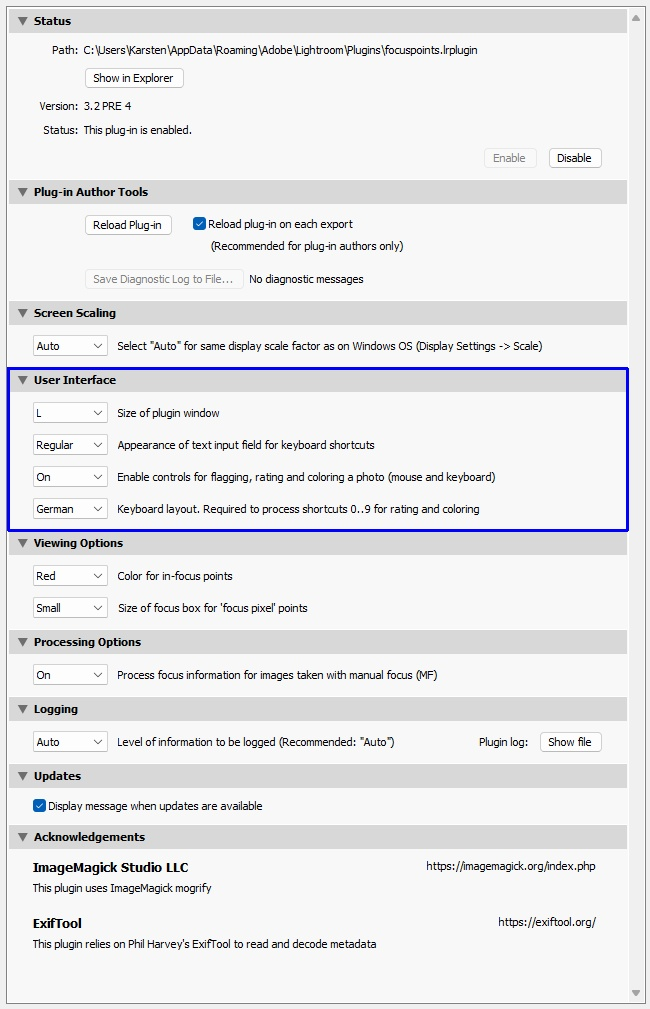
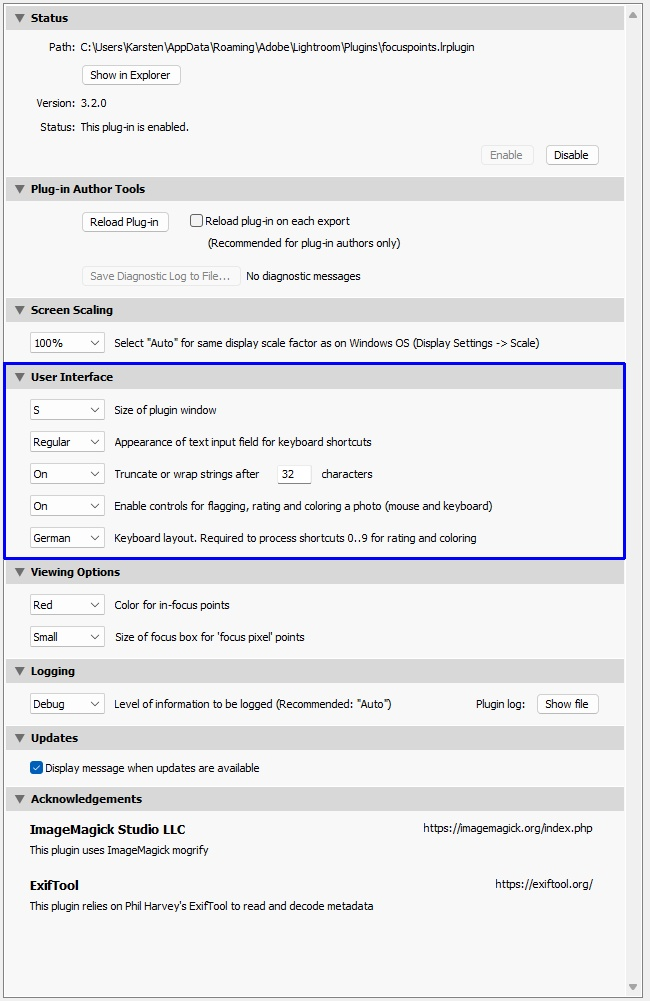
Update docs

Changed region(s): [[0.0, 0.0, 1.0, 1.0], [0.8308, 0.1239, 0.9231, 0.1858], [0.7692, 0.1548, 0.8, 0.1858]]

diff --git a/docs/README_V3.2.md b/docs/README_V3.2.md
@@ -1,0 +1,202 @@
+## Focus Points V3.2 
+
+This document describes the new features and changes in V3.2.<br>
+
+New features introduced in V3.2: 
+
+- [Tagging (Flagging, Rating and Coloring) of photos within the plugin UI](#tagging-of-photos)&nbsp;&nbsp;[#302](https://github.com/musselwhizzle/Focus-Points/issues/302) (not for LR5)
+- [Filmstrip Navigation](#filmstrip-navigation)&nbsp;&nbsp;[#314](https://github.com/musselwhizzle/Focus-Points/issues/314) (not for LR5)
+- [Customizable plugin window size](#customizable-plugin-window-size)&nbsp;&nbsp;[#317](https://github.com/musselwhizzle/Focus-Points/issues/317)
+- [Introduction of visible input field for keyboard shortcuts](#introduction-of-visible-input-field-for-keyboard-shortcuts)&nbsp;&nbsp;[#321](https://github.com/musselwhizzle/Focus-Points/issues/321)
+- [Long metadata names excessively widen the information area](#display-of-long-metadata-names)&nbsp;&nbsp;[#326](https://github.com/musselwhizzle/Focus-Points/issues/326)
+- [Unify language used in the Shooting Information section](#unify-language-used-in-the-shooting-information-section)&nbsp;&nbsp;[#342](https://github.com/musselwhizzle/Focus-Points/issues/342)
+- [Focus points outside cropped image area](#focus-points-outside-cropped-image-area)&nbsp;&nbsp;[#339](https://github.com/musselwhizzle/Focus-Points/issues/339)
+- [Improved sizing of metadata window](#improved-sizing-of-metadata-window)&nbsp;&nbsp;[#333](https://github.com/musselwhizzle/Focus-Points/issues/333)
+- [Buy the developer a coffee](#buy-the-developer-a-coffee)&nbsp;&nbsp;[#319](https://github.com/musselwhizzle/Focus-Points/issues/319)
+
+
+### User Interface changes
+
+
+Screenshot of user interface with new tagging controls, shortcut input field and "coffee" link :
+
+<img src="../screens/README%20V3.2%20UI.jpg" alt="Screenshot" style="width: 800px;"/>
+
+Screenshot of plugin settings page with new `User Interface` section:
+
+<img src="../screens/README V3.2%20Settings.jpg" alt="Screenshot" style="width: 600px;"/>
+
+
+### Tagging of photos
+
+Users for whom focus point accuracy is critical when selecting shots now have the ability to flag, reject, rate or color images directly within the plugin. The user interface has been updated to include the relevant controls: 
+
+Windows:
+<img src="../screens/README TaggingControlsWIN.jpg" alt="Screenshot" style="width: 800px;"/>
+
+macOS:
+ <img src="../screens/README TaggingControlsMAC.jpg" alt="Screenshot" style="width: 800px;"/>
+
+Tagging can be performed using the same logic and [keyboard shortcuts](#keyboard-shortcuts) as in Lightroom. Pressing the Shift key during tagging moves the plugin to the next photo.
+
+**Notes / Restrictions:**
+
+- Although the plugin allows you to set a photo's flag status, rating and color label, these settings are **not** reflected in the plugin's user interface. Any changes to the flag status, rating or color will be acknowledged immediately with a standard message in Lightroom Classic, and these changes will be reflected in the filmstrip for the selected photo. It is recommended that you adjust the sizes of the plugin window and Lightroom's filmstrip when using tagging, so that both are visible at the same time.
+<br><br>
+- Use of `Shift` + `0`-`9` keyboard shortcuts require that the plugin is aware which international keyboard layout is currently used. This is necessary because the plugin cannot recognize key codes; it can only work with text input. See xxx.<br>
+The keyboard layout can be configured in the `User Interface` section. The predefined options cover a large percentage of the available layouts, and more can be added on request. In this specific context, it is important to note that the term 'layout' refers only to the codes produced by the `0`–`9` keys in the top row, and not to the entire keyboard.
+<br><br>
+<img src="../screens/README KeyboardLayoutSettings.jpg" alt="Screenshot" style="width: 600px;"/>
+<br><br>
+  
+- The LR SDK does not support clickable images, so all control elements must be text or text buttons. As the plugin UI displays all Unicode 'star symbol' characters as small, hardly recognizable stars, the rating controls are represented by numbers 1–5 instead.
+
+- The display of tagging controls and related keyboard shortcut operation can be disabled in the plugin settings, under section `User Interface`.  
+
+- Note: Tagging features use the 'LrSelection' namespace, which is only available in SDK version 6.0 and above. Therefore, these features is not available on LR5.7 (which is still in use by a few plugin users!).
+
+
+
+### Filmstrip Navigation
+You no longer need to select the corresponding photos before starting the plugin to display the focus point for multiple photos.<br> 
+The plugin now supports next and previous function when run on a single image (the current one). `Next image` will advance to the next photo in the filmstrip, and `Previous image` will advance to the previous photo in the filmstrip. Unlike with a set of selected photos, there is no wrap-around when the beginning or end of the film strip is reached.
+
+Running the plugin on a selection of multiple photos is still possible.
+
+Note: Filmstrip navigation uses the 'LrSelection' namespace, which is only available in SDK version 6.0 and above. Therefore, this feature is not available on LR5.7.
+
+
+### Customizable plugin window size
+
+V3.2 introduces a "Size of plugin window" option, that is valid for both macOS and Windows*. A new setting has been added to the 'User Interface' menu that allows you to customize the size of the plugin window. You can choose from five options ranging from XXL to S.
+
+In the Focus Point dialog, this setting corresponds to 80% (XXL) to 40% (S), in increments of 10%, of the size of the Lightroom application window used to display the photo. Please note that the text pane to the right of the photo and the bottom row of user controls are not included in this percentage.
+
+<img src="../screens/README WindowSize.jpg" alt="Screenshot" style="width: 600px;"/>
+
+In the Metadata Viewer, this setting determines the height or half the width of the dialog window.
+
+* Windows users already had the option to adjust the size of the focus points window using the screen scaling option specific to Windows. This setting remains as it is.
+
+
+### Introduction of visible input field for keyboard shortcuts
+
+Due to limitations in the LR SDK, the plugin can only work with text input and cannot recognize key codes. Keyboard shortcuts entered by the user, such as 'P' for 'Set as Pick' or '+' for 'Previous Image', are collected as text in a designated input field. If the character entered corresponds to a defined shortcut, the related action is performed. This works fine as long as the focus is on the input field.
+
+In Windows, only pressing the Tab key or clicking on the photo will remove the focus from the input field. As a result, further keyboard input will not be recognized. Mouse operation does not remove the focus.
+
+On macOS, clicking on any control (button, link text or tagging icon) takes focus away from the input field. With the large number of new controls in V3.2, it is not possible to perform operations using keyboard shortcuts and the mouse simultaneously for the same image.
+
+n V3.1, the text input field for keyboard shortcuts was invisible. The user could not understand why keyboard shortcuts stopped working when focus was removed from the input field by mouse operation. As the LR SDK offers no option to focus on a specific control, the input field must be refocused by the user.
+
+To make this procedure more transparent and intuitive, the text input field is now visible by default:
+
+<img src="../screens/README%20TextInputField.jpg" alt="Screenshot" style="width: 600px;"/>
+
+Users who find the new control disturbing can customize its appearance in the plugin settings:
+
+<img src="../screens/README%20TextInputSetting.jpg" alt="Screenshot" style="width: 600px;"/>
+
+- Invisible. This is self-explaining
+- Small. A narrow input field without labelling
+- Regular. An input field that can display a minimum of 10 characters, along with a label containing a link to the 'Keyboard Shortcuts' section of the user manual.
+
+### Keyboard Shortcuts
+
+Several new keyboard shortcuts have been introduced to support photo tagging (flagging, rating, and color labeling). These shortcuts are identical to those used in Lightroom.
+
+Some shortcuts in V3.1 have been changed to avoid collision with Lightroom tagging shortcuts. Previously, 'p' was used for 'preview', 'x' for 'exit', and 'u' for 'user manual'. Instead of 'Exit', the plugin will now close using the 'Close' button (shortcut 'C').
+
+
+| Action                                      | Keyboard shortcuts |
+|---------------------------------------------|--------------------|
+| **Navigation**                              |                    | 
+| Previous image                              | `-`, `<`           |
+| Next image                                  | `+`, `Spacebar`    |
+| **Flagging**                                |                    |
+| Flag photo as a pick                        | `P`                |
+| Flag photo as a pick and go to next photo   | `Shift`+`P`        |
+| Flag photo as a reject                      | `X`                |
+| Flag photo as a reject and go to next photo | `Shift`+`X`        |
+| Unflag photo                                | `U`                |
+| Unflag photo and go to next photo           | `Shift`+`U`        |
+| **Rating**                                  |                    |
+| Set star rating                             | `1`-`5`            |
+| Set star rating and go to next photo        | `Shift`+`1`-`5`    |
+| **Color**                                   |                    |
+| Assign a red label                          | `6`                |
+| Assign a yellow label                       | `7`                |
+| Assign a green label                        | `8`                |
+| Assign a blue label                         | `9`                |
+| Assign a color label and go to next photo   | `Shift`+`6`-`9`    |
+| **Miscelleanous**                           |                    |
+| Open User Manual                            | `M`                |
+| Open Troubleshooting Information (Help)     | `?`, `H`           |
+| Check Log                                   | `L`                |
+| Close                                       | `C `               |
+
+
+### Display of long names
+
+Some metadata values or filenames may be much longer than average. This can result in the information area of the dialogue box becoming wider than necessary. This is because most of the space is empty.
+
+For a few selected metadata items, if the character string exceeds a fixed internal length, it is split across multiple lines. However, this approach is not practical for all metadata.
+
+There is a new setting in 'User Interface' that allows you to specify whether long names should be truncated in the display or shown in full in the tooltip. You can choose the truncation limit, which can be set between 10 and 100 characters.
+
+<img src="../screens/README%20Truncate%20Setting.jpg" alt="Screenshot" style="width: 600px;"/>
+
+Enabling this setting makes the window content look much tidier:
+
+<img src="../screens/README%20Long%20Names.jpg" alt="Screenshot" style="width: 800px;"/>
+
+
+### Unify language used in the Shooting Information section
+
+When running Lightroom with a non-English user interface, the 'Shooting Information' section shows a mix of English and UI language (here: German):
+
+<img src="../screens/README%20Unify%20Shooting%20Information%20Language%201.jpg" alt="Screenshot" style="width: 800px;"/>
+
+The plugin user interface is designed in English. The metadata information retrieved by ExifTool is also in English. However, the metadata information stored in Lightroom, which is used to fill in the 'Image' and 'Shooting Information' fields, is in the same language as the Lightroom user interface. This results in a mixture of languages.
+
+To avoid this issue, the 'Shooting Information' items containing language-dependent text are retrieved from ExifTool rather than Lightroom in V3.2.
+
+<img src="../screens/README%20Unify%20Shooting%20Information%20Language%202.jpg" alt="Screenshot" style="width: 800px;"/>
+
+
+### Focus points outside cropped image area
+
+Although focus points have been detected, they may be invisible or partially invisible if they are located outside the cropped image area.
+
+Note: This message is not triggered by face or subject detection frames, only focus points. 
+
+Cropped image (focus point outside):
+<img src="../screens/Troubleshooting 11.jpg" alt="User Interface (Multi-image)" style="width: 800px;"/>
+
+Original image with focus point:
+<img src="../screens/Troubleshooting 12.jpg" alt="User Interface (Multi-image)" style="width: 800px;"/>
+
+
+### Improved sizing of metadata window
+
+In version 3.1, metadata tag names that were significantly longer than 40 characters could result in an unusual display in the metadata viewer.
+
+This has been improved in V3.2:
+
+1. The maximum length of tags displayed is limited to 32 characters.
+2. The maximum length of values displayed is limited to 128 characters.
+3. Truncated strings are indicated by an ellipsis symbol '...' <br> If this is relevant information, it can still be reviewed by opening the metadata as text.
+5. The edit fields for the 'Tag' and 'Value' filters are the same size as in point 1.
+6. The heigth of the metadata window is given by the `Size of plugin window` setting S .. XXL
+7. The width of the metadata window chosen that the head line (filter entry fields, hint) fits in but minimum 70% of the window height.
+
+<img src="../screens/README%20Metadata%20Window.jpg" alt="Screenshot" style="width: 800px;"/>
+
+
+### Buy the developer a coffee
+Several of you have asked how you can show your appreciation for the work I have done to significantly improve the plugin over the past year or so. If you care about this issue, you can now show your [support via Ko-fi](https://ko-fi.com/focuspoints)*. Simply click the link next to the coffee cup.
+
+*Ko-fi is a well-established service that enables users to support creators through voluntary donations.
+Payments are processed securely via PayPal or credit/debit card, and no account or subscription is required.
+
+Thank you very much for your support!

diff --git a/docs/Focus Points.md b/docs/Focus Points.md
@@ -14,7 +14,7 @@ Focus Points Plugin for Lightroom Classic
    - [User Interface](#user-interface), [User Messages](#user-messages), [Plugin Status](#plugin-status), [Keyboard Shortcuts](#keyboard-shortcuts) 
 *  [Metadata Viewer](#23-metadata-viewer)
 *  [Configuration and Settings](#24-configuration-and-settings)
-   - [Screen Scaling](#screen-scaling), [User Interface](#user-interface), [Viewing Options](#viewing-options), [Logging](#logging), [Update Check](#update-check)
+   - [Screen Scaling](#screen-scaling), [User Interface](#user-interface-settings), [Viewing Options](#viewing-options), [Logging](#logging), [Update Check](#update-check)
 
 ### [Display of Focus Points](#3-display-of-focus-points)
 
@@ -406,16 +406,16 @@ Selecting 'Focus Point Viewer' from the list of installed plugins (_Library → 
 
 <br>
 
-### Screen Scaling (Windows only)
+### Screen Scaling
 
- **_Display scale factor_**. Default setting: `Auto`
+ **_Display scale factor_**. Windows only. Default setting: `Auto`
 
 The drawing routines used on Windows are not aware of any display scale factor that may have been applied to the Windows configuration (_Settings → Display → Scale_). In order to avoid that the plugin window gets bigger than the screen size, the plugin has to reverse this scaling when calculating the size of the dialog window.
 
  The `Auto` setting causes the plugin to scale its windows in sync with a system scale factor. Optionally, a predefined fixed scale value can be selected, which avoids a registry access via an external command (REG.EXE) on each call of the plugin. The meaning of the predefined values 100%, 125%, 150%, etc. is the same as in the Windows Settings dialog. I.e. to undo a system-wide zoom of 150%, the same value '150%' must be selected from the drop-down list.
 
 
-### User Interface
+### User Interface Settings
 
 This section is new in version 3.2. It contains several settings that can be used to customize the appearance and functionality of the plugin's user interface. 
 
